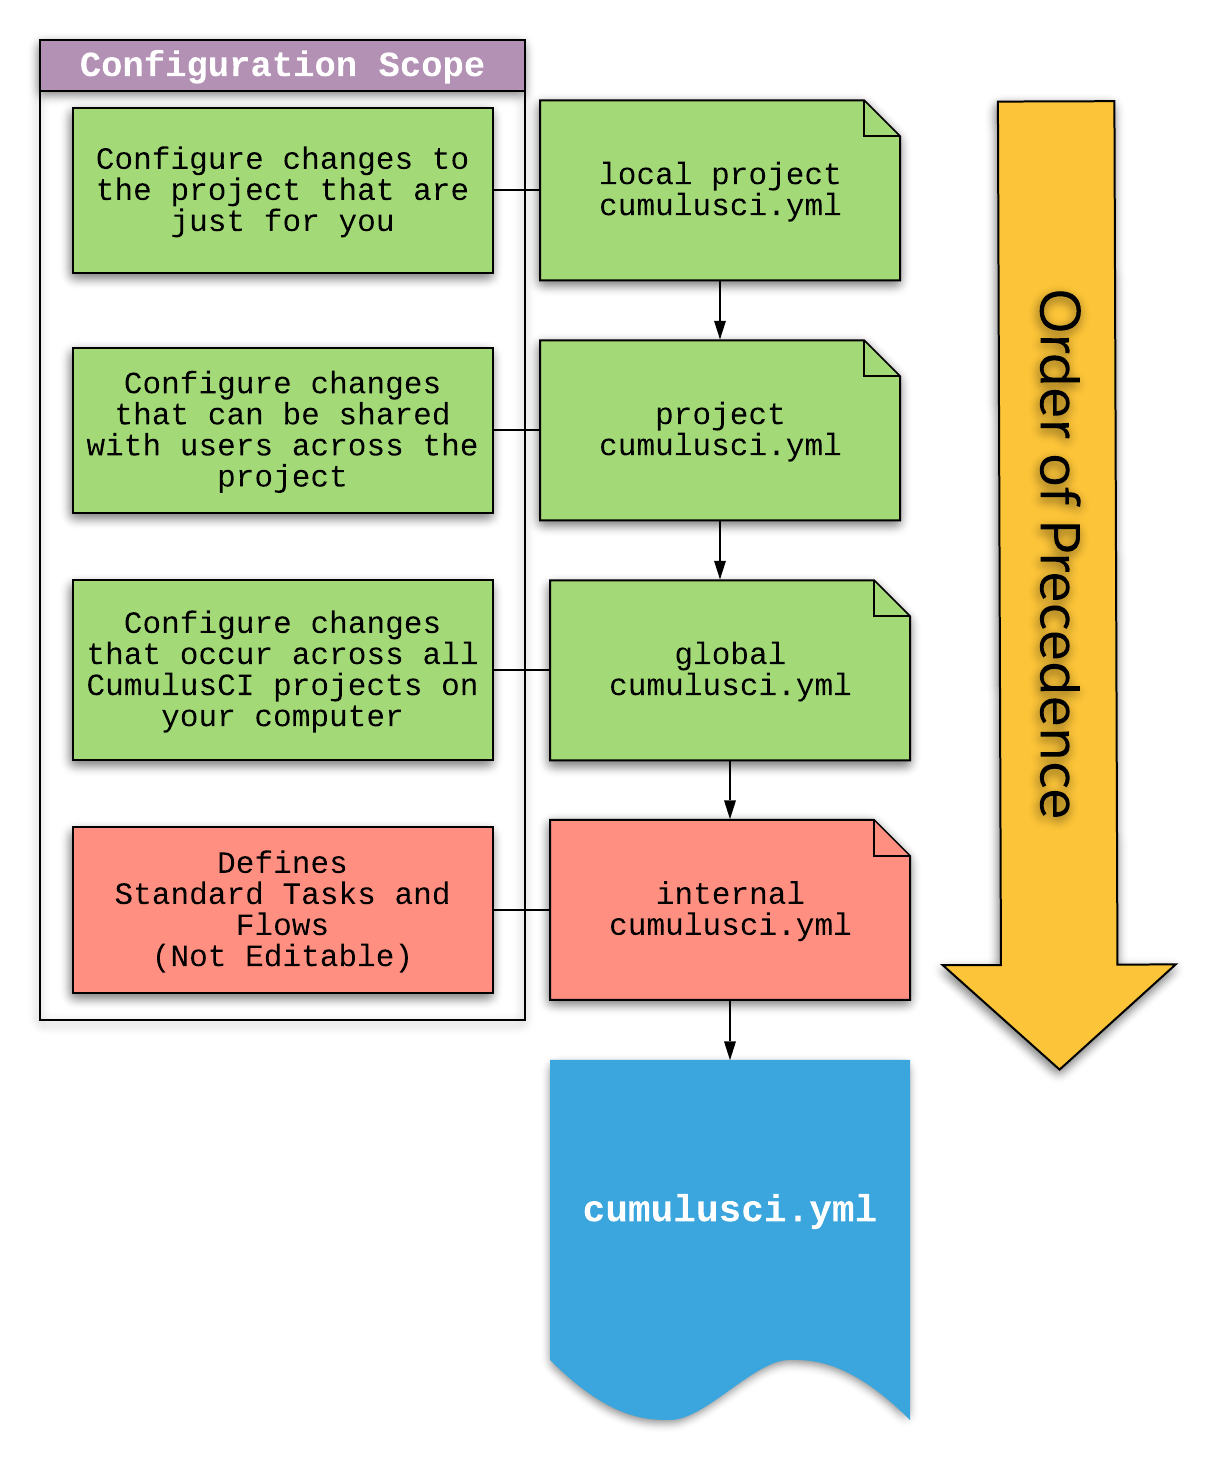
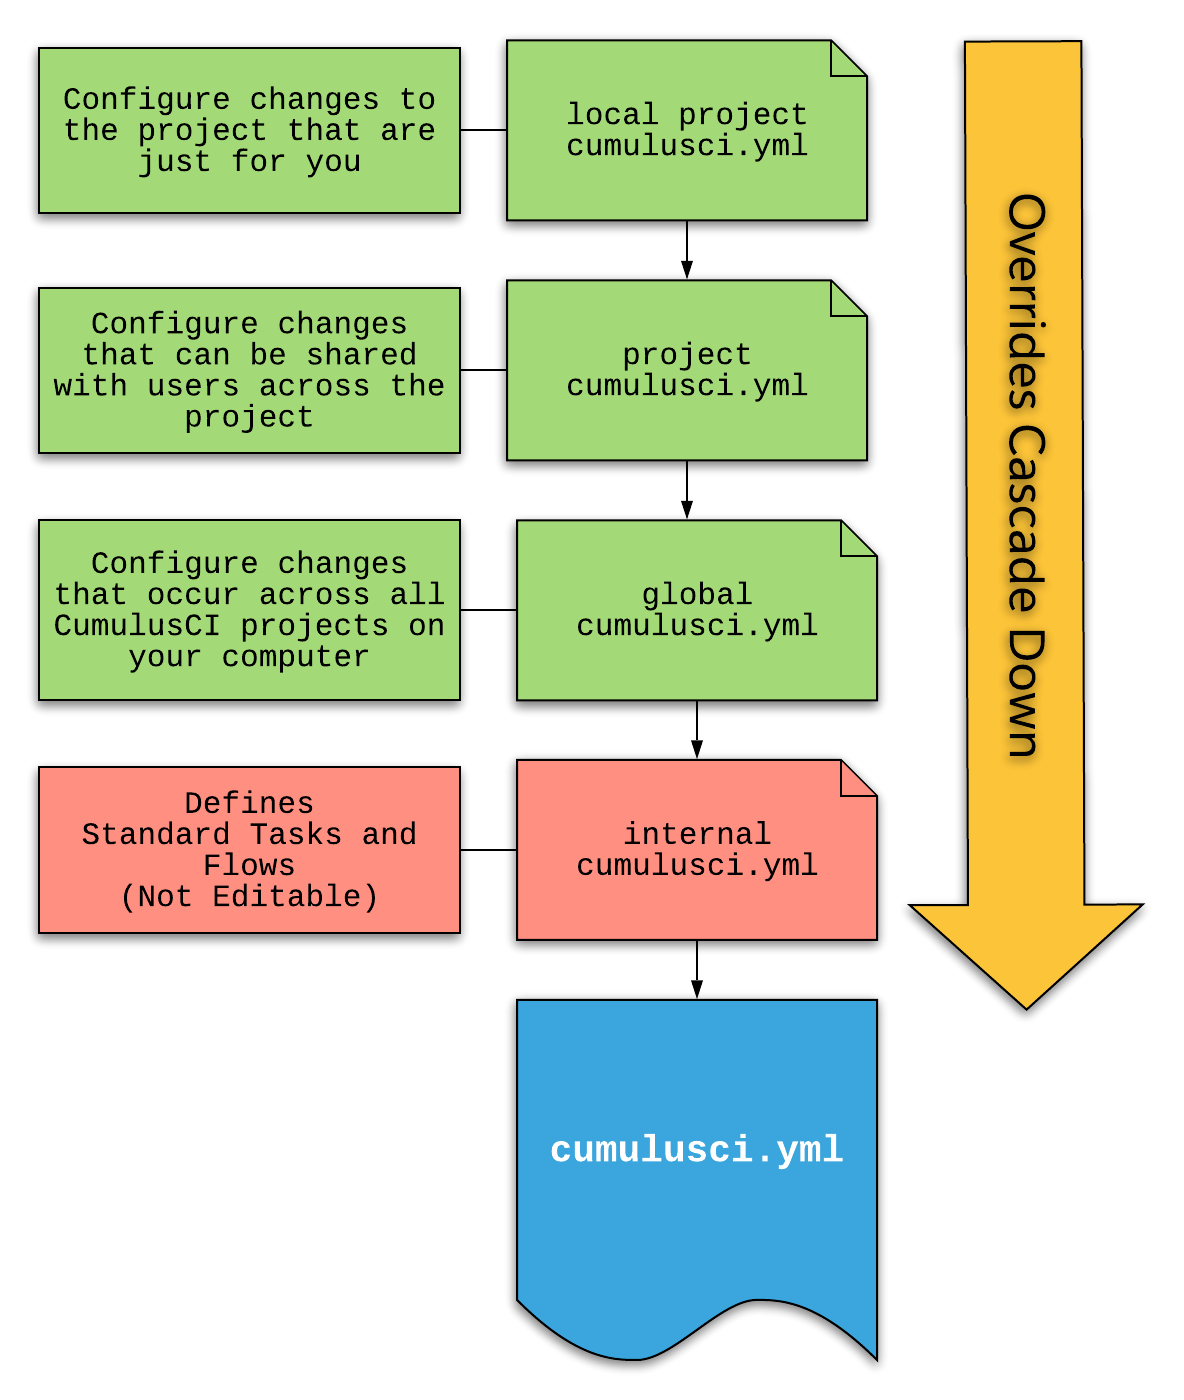
org configurations

Changed region(s): [[0.0312, 0.0, 0.9688, 0.9829], [0.4688, 0.9521, 0.5938, 0.9829]]

diff --git a/docs/config.rst b/docs/config.rst
@@ -5,65 +5,32 @@ Configuring CumulusCI
 
 ``cumulusci.yml`` Structure
 ---------------------------
-There are five top level sections of the ``cumulusci.yml`` file: Project, Tasks, Flows, Sources, and Orgs.
+There are six top level sections of the ``cumulusci.yml`` file: Project, Tasks, Flows, Sources, Orgs, and Plans.
 
-Project
-*****************
-The section is largely generated by running ``cci project init`` and has two major sub-categories: ``package``, and ``git``.
-The ``package`` sub-section contains information about the projects package, while the ``git`` sub-section contains a link to the projects GitHub repository, and branch prefixes.
+* **Project** - This section is largely generated by running ``cci project init`` and has two major sub-categories: ``package``, and ``git``. The ``package`` sub-section contains information about the project's package, while the ``git`` sub-section contains a link to the project's GitHub repository, any branch prefixes being utilized.
 
+* **Tasks** - This section lists any tasks that are currently being configured by your project. See `task configurations`_ for more info on the types of configurations that can be made in this section.
 
+* **Flows** - This section lists any flows that are currently being configured by your project. See `flow configurations`_ for more info on the types of configurations that can be made in this section.
 
-Tasks
-*****************
-This section lists any tasks that are currently being configured by your project.
-Configurations here can include things like specifying default values for options or including a new custom task written in Python.
+* **Sources** - This section lists any GitHub repositories who's custom tasks and flows you would like to make available to CumulusCI. See the `using tasks and flows from a different project`_ section for more info.
+
+* **Orgs** - This section lists any customizations you've made to orgs that are available to CumulusCI.new org used for testing multicurrency.
 
 
-
-Flows
-*****************
-This section lists any flows that are currently being configured by your project.
-Configuraitons here include things like, adding/removing/replacing steps in a flow, or defining new custom flows.
-
-
-
-Sources
-*****************
-This section lists any GitHub repositories who's custom tasks and flows you would like to make available to CumulusCI.
-You can find more on this topic in the `using tasks and flows from a different project`_ section.
-
-
-
-Orgs
-*****************
-This section lists any customizations you've made to the five out-of-the-box org that come with CumulusCI or any net new orgs you've configured for your project.
-The following is a an example where the default days for the ``dev`` org has been increased to 15, and there is a new org used for testing multicurrency.
-
-.. code-block:: yaml
-
-    orgs:
-        dev:
-            days: 15
-        multicurrency:
-            config_file: orgs/multicurrency.json
-            days: 7
-
-Plans
-*****************
-This section contains any custom plans you have defined for how to install your project into a customer org.
-See more about plans on Metadeploy `here<TODO>`_
+* **Plans** - This section contains any custom plans you have defined for how to install your project into a customer org. See more about plans on Metadeploy `here<TODO>`_
 
 
 
 Task Configurations
 -------------------
-With some simple changes in the ``cumulusci.yml`` file, you can override a lot of build functionality without ever touching any Python code.
+Task configurations are made under the ``tasks:`` top-level section of your project's ``cumulusci.yml`` file.
+With some simple changes in the ``cumulusci.yml`` file under the ``task`` section, you can configure a lot of build automation nctionality without ever touching any Python code.
 
 
 
 Overriding a Task Option
-********************************
+^^^^^^^^^^^^^^^^^^^^^^^^
 The `internal cumulusci.yml file <https://github.com/SFDO-Tooling/CumulusCI/blob/master/cumulusci/cumulusci.yml>`_ that ships with CumulusCI defines the `deploy task <https://github.com/SFDO-Tooling/CumulusCI/blob/d038f606d97f50a71ba1d2d6e9462a249b28864e/cumulusci/cumulusci.yml#L129>`_ with the following YAML::
 
     tasks:
@@ -82,7 +49,7 @@ You can **override** the ``path`` option by adding the following to your project
 
 
 Add a Custom Task
-********************************
+^^^^^^^^^^^^^^^^^
 Say that you want to take the above example and create a custom task named ``deploy_reports`` to make it more apparent what this task is doing.
 First, lookup the Python class associated with the standard task ``deploy``. We can see above that the ``deploy`` task has a ``class_path`` value of ``cumulusci.tasks.salesforce.Deploy``.
 Let's assume there are reports that are a part of your package's unpackaged Metadata that live at ``unpackaged/config/reports``.
@@ -120,8 +87,10 @@ The above assumes that your task's class is name ``MyTaskClass`` and exists in t
 Flow Configurations
 -------------------
 
+
+
 Add a Flow Step
-********************************
+^^^^^^^^^^^^^^^
 If you want to add a step to a flow, you first need to know what the existing steps are.
 The easiest way to see this is with ``cci flow info <flow_name>``.
 Take the ``dev_org`` flow as an example:
@@ -165,7 +134,7 @@ If you wanted to add a step number that runs after all steps in the flow, then a
 
 
 Skip a Flow Step
-********************************
+^^^^^^^^^^^^^^^^
 To skip a flow step, set the desired step number to a task with the value of ``None``.
 The following would skip the 4th step from the ``dev_org`` flow.
 
@@ -183,7 +152,7 @@ When CumulusCI detects a task with this value, it is skipped:
 
 
 Replace a Flow Step
-********************************
+^^^^^^^^^^^^^^^^^^^
 To replace a flow step, simply name the task or flow you wish to run in place of the current step.
 The following would replace the fourth step of the ``dev_org`` flow with a custom task that loads data into a dev environment.
 
@@ -194,10 +163,12 @@ The following would replace the fourth step of the ``dev_org`` flow with a custo
             4:
                 task: load_data_dev
 
+You can swap two steps in a flow by replacing one with the other. 
+
 
 
 Add a Custom Flow
-********************************
+^^^^^^^^^^^^^^^^^
 To define a new flow, simply add the name of the new flow under the ``flows`` section of your ``cumulusci.yml`` file.
 Here is an example custom flow
 
@@ -216,11 +187,33 @@ You can reference how we defined the flows for the standard library `here <https
 
 
 
-Plan Configuration
-------------------
+Org Configuratiions
+-------------------
 
-TODO: need to fill out this section
+Override a Default Values
+^^^^^^^^^^^^^^^^^^^^^^^^^
+These overrides pertain only to scratch orgs.
+You can override the following values for org:
 
+* ``days`` - integer - Number of days for the scratch org to persist.
+* ``namespaced`` - boolean - Whether or not the scratch org is a `namespaced org <TODO sf link?>`_.
+* ``config_file`` - string - Path to the org definition file to use when building the scratch org.
+
+To override a value you can use the following syntax
+
+.. code-block:: yaml
+    
+    orgs:
+        org_name:
+            key: value 
+
+The following demonstrates how to override the default number of days from 7 to 15 on the ``dev`` org:
+
+.. code-block:: yaml
+
+    orgs:
+        dev:
+            days: 15
 
 
 Configuration Scopes
@@ -230,13 +223,13 @@ In actuality, CumulusCI merges multiple `YAML <https://yaml.org/>`_ files that a
 All of these files are have the same name- ``cumulusci.yml`` -but live in different locations on the file system.
 
 You can configure files at three scope levels: Project, Local Project, Global.
-Configurations have the following order of precedence (from highest to lowest):
+Configurations have the following order of override precedence (from highest to lowest):
 
 * Local Project
 * Project
 * Global
 
-Overrides by precendence only happen when two configurations are attempting to set a value for the same element.
+One override will only cascade over another when two configurations are setting a value for the same element on a task or flow.
 For example, say there exists a task T that takes two options o1 and o2.
 You can specify a default value for o1 in your project's ``cumulusci.yml`` file and a default for o2 in your global ``cumulusci.yml`` file and everything will work as exepected.
 If you then change your project's ``cumulusci.yml`` file to also specify a default value for o2, this will take precedence over the default value specified in your global ``cumulusci.yml`` file.
@@ -249,27 +242,26 @@ Changes made to configuration files on top will override any changes in files be
 
 
 Local Project Configurations
-******************************
+^^^^^^^^^^^^^^^^^^^^^^^^^^^^
 **File Path:** ``~/.cumulusci/project_name/cumulusci.yml``
 
-Configurations made to this ``cumulusci.yml`` file apply to only the project with the given <project_name>.
+Configurations made to this ``cumulusci.yml`` file apply to only the project with the given <project_name>, and take precedence over **all other** configuration scopes.
 If you want to make customizations to a project, but don't need them to be available to other team members, you would make those customizations here.
-These configurations take precedence over **all other** configuration scopes.
 
 
 
 Project Configurations
-*************************
+^^^^^^^^^^^^^^^^^^^^^^
 **File Path:** ``/path/to/project/cumulusci.yml``
 
-This ``cumulusci.yml`` file lives in the root directory of your project and is typically included in source tracking.
-It is useful to modify this file as the changes can be commited back to a remote repository so other team members can benefit from the customizations.
-Configurations made to this file apply to this project, and take precedence over any configurations specified in the `global configurations`_ file, but are overwritten by configurations in the `local project`_ file.
+This ``cumulusci.yml`` file lives in the root directory of your project, and apply to only this project.
+Changes here can be commited back to a remote repository so other team members can benefit from the customizations.
+Configurations in this file apply to this project, and take precedence over any configurations specified in the `global configurations`_ file, but are overwritten by configurations in the `local project`_ file.
 
 
 
 Global Configurations
-***********************
+^^^^^^^^^^^^^^^^^^^^^
 **File Path:** ``~/.cumulusci/cumulusci.yml``
 
 Configuration of this file will override behavior across **all** CumulusCI projects on your machine.
@@ -277,8 +269,8 @@ Configurations in this file have the lowest precedence, and are overwritten by *
 
 
 
-One Last ``cumulusci.yml``
-*****************************
+The Internal ``cumulusci.yml``
+^^^^^^^^^^^^^^^^^^^^^^^^^^^^^^
 There is one more configuration file that exists; the `internal cumulusci.yml <https://github.com/SFDO-Tooling/CumulusCI/blob/master/cumulusci/cumulusci.yml>`_ file that ships with CumulusCI itself.
 This file actually holds the lowest precedence of all, as all other scopes override what is contained in this file.
 This file contains all of the definitions for the standard tasks, flows, as well as, the default configurations that come out of the box with CumulusCI.
@@ -292,10 +284,10 @@ Advanced Configurations
 -----------------------
 
 Using Variables for Task Options
-***********************************
+^^^^^^^^^^^^^^^^^^^^^^^^^^^^^^^^
 Sometimes you may want to reference a specific value within the ``cumulusci.yml`` file.
 To do this we can utilize the ``$project_config`` variable.
-You can use a double underscore (``__``) to access the different levels of the ``cumulusci.yml`` file.
+You can use a double underscore ( ``__`` ) to access the different levels of the ``cumulusci.yml`` file.
 
 For example, NPSP utilizes a variable to the project's namespace by setting a value of ``$project_config.project__package__namespace``.
 Here is an example task that does just this to provide a value for the ``namespace_inject`` option in a custom deploy task:
@@ -330,7 +322,7 @@ Currently under ``$project_config.project__package__namespace`` is the value: ``
 
 
 Referencing Task Return Values
-**********************************
+^^^^^^^^^^^^^^^^^^^^^^^^^^^^^^
 Tasks can set an internal `return_value` on themselves while executing.
 This allows one task in a flow to reference the `return_value` set on another task that executed prior to it.
 
@@ -385,7 +377,7 @@ This flow references both ``version_id`` and ``version_number`` return values se
 
 
 Using Tasks and Flows From a Different Project
-*************************************************
+^^^^^^^^^^^^^^^^^^^^^^^^^^^^^^^^^^^^^^^^^^^^^^
 The dependency handling discussed above is used in a very specific context, to install dependency packages or metadata bundles in the ``dependencies`` flow which is a component of some other flows.
 It's also possible to use arbitrary tasks and flows from another project.
 To do this, the other project must be named in the ``sources`` section of cumulusci.yml:
@@ -437,10 +429,18 @@ This flow will use NPSP's ``install_prod`` flow to install NPSP as a managed pac
 
 
 
+Plan Configurations
+^^^^^^^^^^^^^^^^^^^
+
+TODO: Content for configuring plans here
+
+
 Troubleshooting Configurations
 ------------------------------
-You can always use ``cci task info <task_name>`` and ``cci flow info <flow_name>`` to see how a given task or flow will behave with the current state of configuration.
-For example, the ``util_sleep`` tasks' ``seconds`` option defaults to a value of 5 out-of-the-box::
+Use ``cci task info <task_name>`` and ``cci flow info <flow_name>`` to see how a given task or flow will behave with the current state of configuration.
+For example, the ``util_sleep`` task has a ``seconds`` option that defaults to 5 out-of-the-box:
+
+.. code-block:: console
 
     $ cci task info util_sleep
     util_sleep
@@ -460,14 +460,18 @@ For example, the ``util_sleep`` tasks' ``seconds`` option defaults to a value of
         The number of seconds to sleep
         Default: 5
 
-If you want instead, the default value to be 30 seconds for all projects you could add the following in your global ``cumulusci.yml`` file locaated at ``~/.cumulusci/cumulusci.yml``::
+If you want instead, the default value to be 30 seconds for all projects you could add the following in your global ``cumulusci.yml`` file locaated at ``~/.cumulusci/cumulusci.yml``:
+
+.. code-block:: yaml
 
     tasks:
         util_sleep:
             options:
                 seconds: 30
 
-And now ``cci task info util_sleep`` shows a default of 30 seconds::
+And now ``cci task info util_sleep`` shows a default of 30 seconds:
+
+.. code-block:: console
 
     $ cci task info util_sleep
     util_sleep
